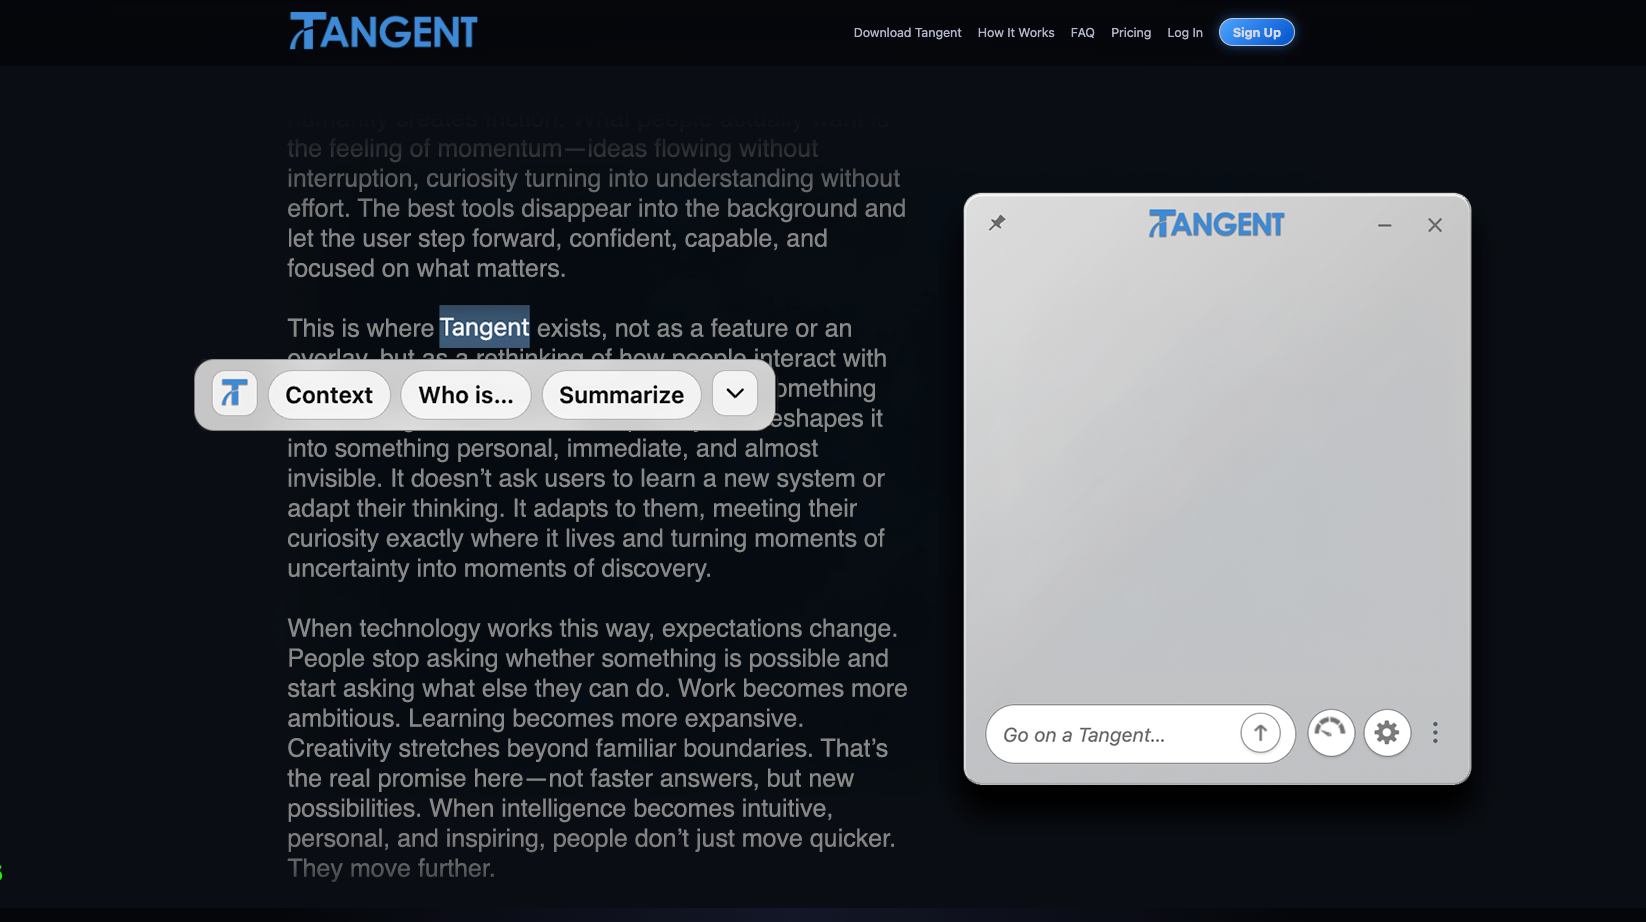
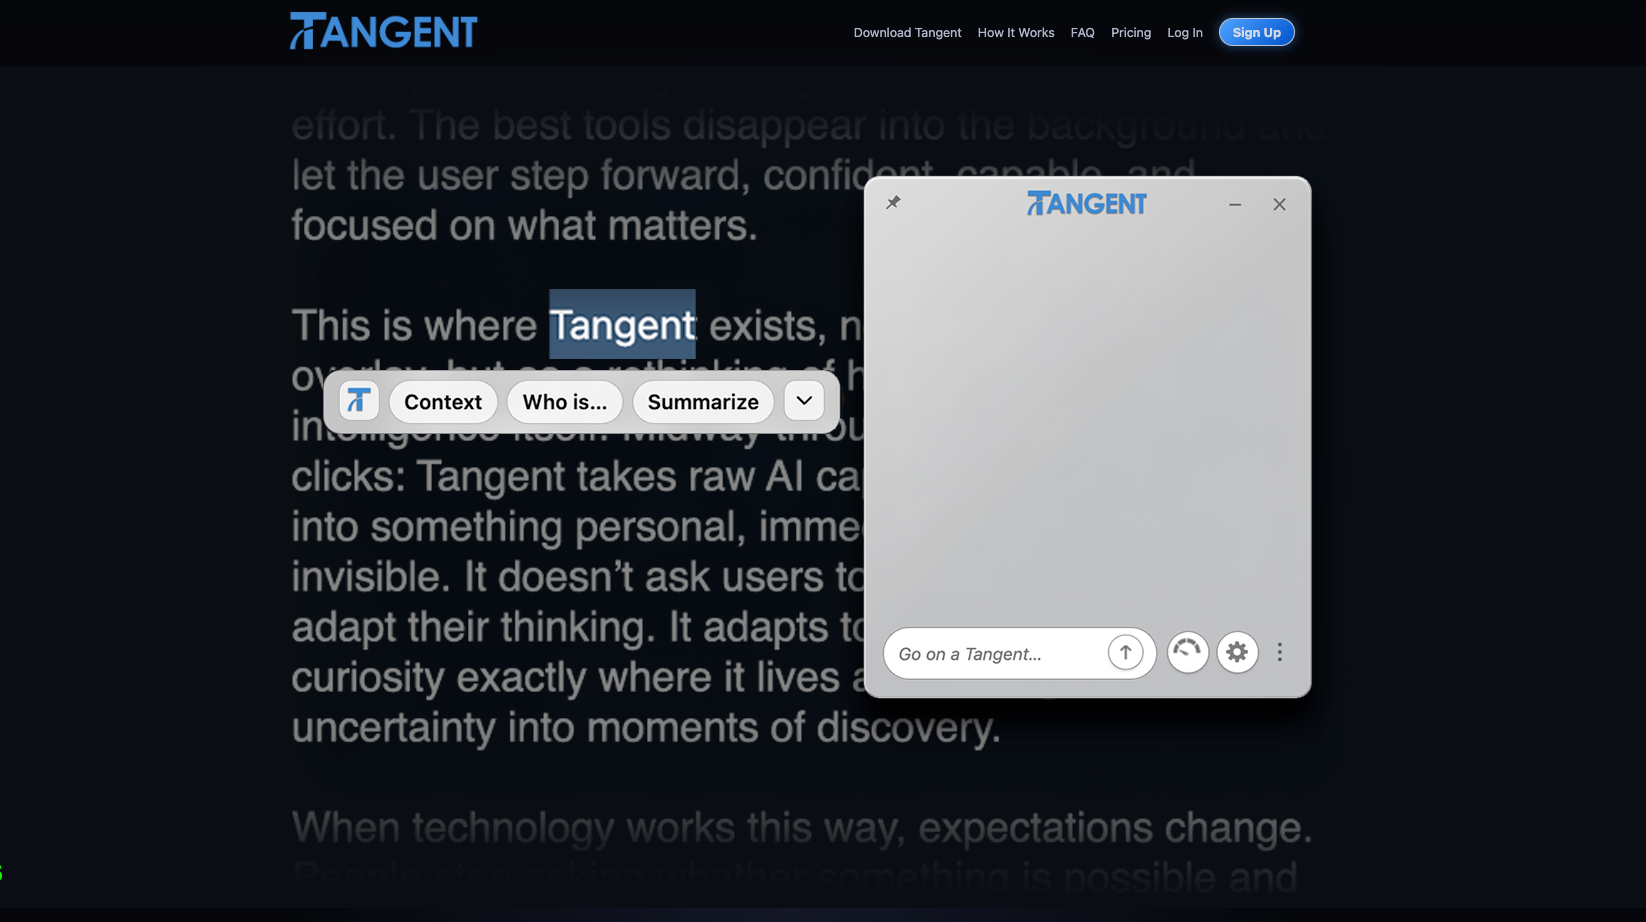
asdf

Changed region(s): [[0.093, 0.1215, 0.8985, 0.9718]]

diff --git a/index.html b/index.html
@@ -89,10 +89,10 @@
 
                             <!-- Chip Bank (initially hidden) -->
                             <div id="demo-chips" class="tg-demo-chips" style="display: none;">
-                                <button class="tg-demo-chip" data-chip="what">Explain</button>
-                                <button class="tg-demo-chip" data-chip="eli5">Summarize</button>
-                                <button class="tg-demo-chip" data-chip="faq">Translate</button>
-                                <button class="tg-demo-chip" data-chip="code">Code help</button>
+                                <button class="tg-demo-chip" data-chip="what">Context</button>
+                                <button class="tg-demo-chip" data-chip="eli5">What is...</button>
+                                <button class="tg-demo-chip" data-chip="faq">Summarize</button>
+                                <button class="tg-demo-chip" data-chip="code">Translate</button>
                             </div>
 
                             <!-- Tangent Panel (initially hidden) - EXACT REPLICA FROM EXTENSION -->
@@ -244,15 +244,15 @@
 /* Article */
 #demo-article {
     font-family: Helvetica, Arial, sans-serif;
-    font-size: 24px;
-    line-height: 1.7;
+    font-size: 16px; /* Much smaller - was 24px */
+    line-height: 1.6;
     color: #ffffff; /* White text */
     height: 100%;
     overflow-y: auto;
     scroll-behavior: smooth;
     padding: 40px 0;
     scrollbar-width: none; /* Hide scrollbar in Firefox */
-    max-width: 700px; /* Constrain text width to left side */
+    max-width: 550px; /* Narrower - was 700px */
 }
 
 #demo-article::-webkit-scrollbar {
@@ -345,20 +345,20 @@
     transform: scale(1);
 }
 
-/* Tangent Panel - EXACT REPLICA (125% scale) */
+/* Tangent Panel - Scaled down to match mockup */
 .tg-demo-panel {
     position: relative;
     z-index: 2;
     cursor: default;
-    width: 475px;  /* 380px * 1.25 */
-    height: 525px; /* 420px * 1.25 */
+    width: 380px;  /* Standard size, not 125% */
+    height: 320px; /* Smaller height to match mockup */
     display: flex;
     flex-direction: column;
     overflow: visible;
     opacity: 1;
     font-family: system-ui, -apple-system, "Segoe UI", Roboto, Inter, sans-serif;
-    font-size: 17.5px; /* 14px * 1.25 */
-    border-radius: 15px; /* 12px * 1.25 */
+    font-size: 14px; /* Standard size */
+    border-radius: 12px;
     box-shadow: 0 12px 64px rgba(0, 0, 0, 0.6),
                 0 24px 96px rgba(0, 0, 0, 0.4);
 }
@@ -387,13 +387,13 @@
     cursor: move;
 }
 
-/* Panel Header - EXACT REPLICA (125% scale) */
+/* Panel Header - Standard size */
 .tg-demo-panel__header {
     display: flex;
     align-items: center;
     justify-content: center;
-    gap: 10px; /* 8px * 1.25 */
-    padding: 12.5px 12.5px 10px; /* 10px * 1.25, 10px * 1.25, 8px * 1.25 */
+    gap: 8px;
+    padding: 10px 10px 8px;
     position: relative;
     cursor: move;
     user-select: none;
@@ -402,18 +402,18 @@
     z-index: 10;
 }
 
-/* Pin button - EXACT REPLICA (125% scale) */
+/* Pin button - Standard size */
 .tg-demo-pin {
     position: absolute !important;
-    left: 10px !important; /* 8px * 1.25 */
+    left: 8px !important;
     top: 50% !important;
     transform: translateY(-50%) !important;
     background: transparent;
     color: #727272;
     border: 1px solid rgba(109, 109, 109, 0.494);
-    border-radius: 7.5px; /* 6px * 1.25 */
-    width: 37.5px; /* 30px * 1.25 */
-    height: 31.25px; /* 25px * 1.25 */
+    border-radius: 6px;
+    width: 30px;
+    height: 25px;
     padding: 0;
     display: flex;
     align-items: center;
@@ -423,8 +423,8 @@
 }
 
 .tg-demo-pin-icon {
-    width: 15px; /* 12px * 1.25 */
-    height: 15px; /* 12px * 1.25 */
+    width: 12px;
+    height: 12px;
     object-fit: contain;
     display: block;
     /* Light mode gray - lines 853-857 */
@@ -446,7 +446,7 @@
 }
 
 .tg-demo-header-logo {
-    height: 27.5px; /* 22px * 1.25 */
+    height: 22px;
     object-fit: contain;
     display: block;
 }
@@ -462,22 +462,22 @@
 /* Minimize/Close buttons container */
 .tg-demo-panel__btns {
     position: absolute;
-    right: 12.5px; /* 10px * 1.25 */
+    right: 10px;
     top: 50%;
     transform: translateY(-50%);
     display: inline-flex;
-    gap: 7.5px; /* 6px * 1.25 */
+    gap: 6px;
     align-items: center;
 }
 
-/* Minimize and Close buttons - EXACT REPLICA (125% scale) */
+/* Minimize and Close buttons - Standard size */
 .tg-demo-panel__btns > button {
     background: transparent;
     color: #727272;
     border: 1px solid rgba(109, 109, 109, 0.494);
-    border-radius: 7.5px; /* 6px * 1.25 */
-    width: 37.5px; /* 30px * 1.25 */
-    height: 31.25px; /* 25px * 1.25 */
+    border-radius: 6px;
+    width: 30px;
+    height: 25px;
     padding: 0;
     display: flex;
     align-items: center;
@@ -494,7 +494,7 @@
 
 /* Close button specific */
 .tg-demo-panel__close {
-    font-size: 26.25px !important; /* 21px * 1.25 */
+    font-size: 21px !important;
     line-height: 1;
     font-weight: 300;
     color: #727272 !important;
@@ -510,18 +510,18 @@
 
 /* Minimize button icons */
 .tg-demo-panel__icon-dash {
-    font-size: 22.5px; /* 18px * 1.25 */
+    font-size: 18px;
     line-height: 1;
     display: block;
-    transform: translateY(1.25px); /* 1px * 1.25 */
+    transform: translateY(1px);
 }
 
 .tg-demo-panel__icon-square {
-    width: 7.5px; /* 6px * 1.25 */
-    height: 7.5px; /* 6px * 1.25 */
-    border: 2.5px solid currentColor; /* 2px * 1.25 */
-    border-top-width: 3.75px; /* 3px * 1.25 */
-    border-radius: 2.5px; /* 2px * 1.25 */
+    width: 6px;
+    height: 6px;
+    border: 2px solid currentColor;
+    border-top-width: 3px;
+    border-radius: 2px;
     display: none;
     transition: border-color 0.15s ease, background-color 0.15s ease, transform 0.15s ease;
 }
@@ -590,15 +590,15 @@
     background-color: rgba(255, 255, 255, 0.25);
 }
 
-/* Message - MATCHES REAL TANGENT STYLING (125% scale) */
+/* Message - MATCHES REAL TANGENT STYLING (standard size) */
 .tg-demo-msg {
-    margin-bottom: 17.5px; /* 14px * 1.25 */
-    padding: 15px 17.5px; /* 12px * 1.25, 14px * 1.25 */
-    border-radius: 10px; /* 8px * 1.25 */
-    font-size: 17.5px; /* 14px * 1.25 */
+    margin-bottom: 14px;
+    padding: 12px 14px;
+    border-radius: 8px;
+    font-size: 14px;
     line-height: 1.6;
     opacity: 0;
-    transform: translateY(5px); /* 4px * 1.25 */
+    transform: translateY(4px);
     animation: tg-demo-msg-in 0.3s ease forwards;
 }
 
@@ -658,12 +658,12 @@
     40% { transform: scale(1.2); opacity: 1; }
 }
 
-/* Panel Footer - EXACT SPECIFICATIONS (125% scale) */
+/* Panel Footer - EXACT SPECIFICATIONS (standard size) */
 .tg-demo-panel__footer {
     flex-shrink: 0;
-    padding: 7.5px 10px; /* 6px * 1.25, 8px * 1.25 */
+    padding: 6px 8px;
     background: rgba(0, 0, 0, 0);
-    backdrop-filter: blur(10px); /* 8px * 1.25 */
+    backdrop-filter: blur(8px);
     display: flex;
     flex-direction: column;
 }
@@ -671,13 +671,13 @@
 .tg-demo-compose-row {
     display: flex;
     align-items: center;
-    gap: 7.5px; /* 6px * 1.25 */
+    gap: 6px;
 }
 
 .tg-demo-compose {
     position: relative;
     flex: 1;
-    padding: 12.5px 10px 10px; /* 10px * 1.25, 8px * 1.25 */
+    padding: 10px 8px;
     display: flex;
     align-items: center;
     width: 100%;
@@ -688,16 +688,16 @@
     flex: 1 1 auto;
     min-width: 0;
     width: auto;
-    height: 32.5px; /* 26px * 1.25 */
-    min-height: 32.5px;
-    line-height: 20px; /* 16px * 1.25 */
-    padding: 16.25px 55px 0px 15px; /* 13px * 1.25, 44px * 1.25, 0px, 12px * 1.25 */
-    border-radius: 27.5px; /* 22px * 1.25 */
+    height: 26px;
+    min-height: 26px;
+    line-height: 16px;
+    padding: 13px 44px 0px 12px;
+    border-radius: 22px;
     border: 1px solid #777777;
     background: rgba(255, 255, 255, 1);
     color: #1f2937;
     font-family: system-ui, -apple-system, "Segoe UI", Roboto, Inter, sans-serif;
-    font-size: 17.5px; /* 14px * 1.25 */
+    font-size: 14px;
     resize: none;
     overflow-y: auto;
     overflow-x: hidden;
@@ -713,14 +713,14 @@
     color: #9ca3af;
 }
 
-/* Send button - EXACT REPLICA (125% scale) */
+/* Send button - EXACT REPLICA (standard size) */
 .tg-demo-send {
     position: absolute;
-    right: 23.75px; /* 19px * 1.25 */
+    right: 19px;
     top: 50%;
     transform: translateY(-50%);
-    width: 35px; /* 28px * 1.25 */
-    height: 35px; /* 28px * 1.25 */
+    width: 28px;
+    height: 28px;
     border-radius: 50%;
     background: rgba(255, 255, 255, 1);
     border: 1px solid #777777;
@@ -728,25 +728,25 @@
     align-items: center;
     justify-content: center;
     cursor: pointer;
-    box-shadow: 0 1.25px 2.5px rgba(0, 0, 0, .18); /* 1px * 1.25, 2px * 1.25 */
+    box-shadow: 0 1px 2px rgba(0, 0, 0, .18);
     transition: box-shadow .12s ease, background .12s ease, border-color .15s ease, transform .08s ease;
 }
 
 .tg-demo-send:hover {
-    box-shadow: 0 2.5px 5px rgba(0, 0, 0, .22); /* 2px * 1.25, 4px * 1.25 */
+    box-shadow: 0 2px 4px rgba(0, 0, 0, .22);
     border-color: #669fc3 !important;
 }
 
 .tg-demo-send:active {
-    box-shadow: 0 0.625px 1.25px rgba(0, 0, 0, .15); /* 0.5px * 1.25, 1px * 1.25 */
-    transform: translateY(-50%) translateY(1.25px); /* 1px * 1.25 */
+    box-shadow: 0 0.5px 1px rgba(0, 0, 0, .15);
+    transform: translateY(-50%) translateY(1px);
     border-color: #669fc3 !important;
 }
 
-/* Send button icon - EXACT REPLICA (125% scale) */
+/* Send button icon - EXACT REPLICA (standard size) */
 .tg-demo-send-icon {
-    width: 15px; /* 12px * 1.25 */
-    height: 15px; /* 12px * 1.25 */
+    width: 12px;
+    height: 12px;
     object-fit: contain;
     display: block;
     transition: filter 0.15s ease, transform 0.15s ease;
@@ -763,13 +763,13 @@
 }
 
 
-/* Three-dot menu toggle (125% scale) */
+/* Three-dot menu toggle (standard size) */
 .tg-demo-menu-toggle {
-    width: 30px; /* 24px * 1.25 */
-    height: 42.5px; /* 34px * 1.25 */
-    margin-right: 7.5px; /* 6px * 1.25 */
+    width: 24px;
+    height: 34px;
+    margin-right: 6px;
     padding: 0;
-    border-radius: 21.25px; /* 17px * 1.25 (half of height) */
+    border-radius: 17px; /* half of height */
     border: none;
     background: transparent;
     box-sizing: border-box;
@@ -790,8 +790,8 @@
 }
 
 .tg-demo-menu-toggle svg {
-    width: 25px; /* 20px * 1.25 */
-    height: 25px; /* 20px * 1.25 */
+    width: 20px;
+    height: 20px;
 }
 
 
